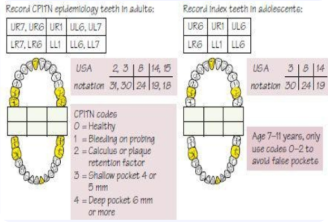
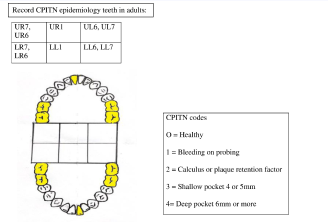
#161 : Resolve Login and Upload Consent Screen Issues in mHealth App

diff --git a/lib/views/login/login_home.dart b/lib/views/login/login_home.dart
@@ -30,35 +30,23 @@ class _LoginHomeState extends State<LoginHome> {
     super.dispose();
   }
 
-  Future<bool> onBackPress() async {
-    // if (loginViewModel.authFlow == LoginScreenTypes.MOBILE_NUMBER) {
-    //   loginViewModel.loginScreenType = LoginScreenTypes.MOBILE_NUMBER;
-    // } else {
-      loginViewModel.loginScreenType = LoginScreenTypes.EMAIL;
-    // }
-    return false;
-  }
-
   @override
   Widget build(BuildContext context) {
-    return WillPopScope(
-      onWillPop: onBackPress,
-      child: Material(
-        child: Selector<LoginViewModel, LoginScreenTypes>(
-          selector: (_, provider) => provider.loginScreenType,
-          builder: (context, LoginScreenTypes value, child) {
-            switch (value) {
-              case LoginScreenTypes.OTP_SCREEN:
-                return const LoginOtpScreen();
-              case LoginScreenTypes.EMAIL:
-                default:
-                return const LoginEmailScreen();
-              /*case LoginScreenTypes.MOBILE_NUMBER:
+    return Material(
+      child: Selector<LoginViewModel, LoginScreenTypes>(
+        selector: (_, provider) => provider.loginScreenType,
+        builder: (context, LoginScreenTypes value, child) {
+          switch (value) {
+            case LoginScreenTypes.OTP_SCREEN:
+              return const LoginOtpScreen();
+            case LoginScreenTypes.EMAIL:
               default:
-                return const LoginMobileScreen();*/
-            }
-          },
-        ),
+              return const LoginEmailScreen();
+            /*case LoginScreenTypes.MOBILE_NUMBER:
+            default:
+              return const LoginMobileScreen();*/
+          }
+        },
       ),
     );
   }

diff --git a/lib/views/screening/consent_screening_screen.dart b/lib/views/screening/consent_screening_screen.dart
@@ -68,6 +68,7 @@ class _ConsentScreeningScreenState extends State<ConsentScreeningScreen> {
   Widget build(BuildContext context) {
     return WillPopScope(
       onWillPop: () async {
+        Navigator.of(context).pop();
         return false;
       },
       child: Scaffold(
@@ -138,7 +139,9 @@ class _ConsentScreeningScreenState extends State<ConsentScreeningScreen> {
                                       removeButtonKey: Key(KEY_REMOVE_BUTTON),
                                       onRemoveClick: () {
                                         provider.removeConsent(index);
-                                        _selectedAttachment.value = null;
+                                        if (provider.consentList == [] || provider.consentList.isEmpty) {
+                                          _selectedAttachment.value = null;
+                                        }
                                       },
                                       viewPictureClick: () {
                                         CommonFunctions.viewImage(context: context, bytes: provider.consentList[index]!.bytes);

diff --git a/lib/viewModel/login_view_model.dart b/lib/viewModel/login_view_model.dart
@@ -1,6 +1,5 @@
 import 'dart:convert';
 import 'package:flutter/material.dart';
-import 'package:http/http.dart';
 import 'package:mhealth/model/send_otp_response_model.dart';
 import 'package:mhealth/model/user_model.dart';
 import 'package:mhealth/model/verify_otp_response_model.dart';
@@ -9,7 +8,6 @@ import 'package:mhealth/services/shared_preference_service.dart';
 import 'package:mhealth/utils/app_constant.dart';
 import 'package:mhealth/utils/common_functions.dart';
 import 'package:mhealth/utils/enums.dart';
-import 'package:shared_preferences/shared_preferences.dart';
 
 class LoginViewModel extends ChangeNotifier {
   static LoginViewModel loginViewModel = LoginViewModel._();
@@ -131,7 +129,7 @@ class LoginViewModel extends ChangeNotifier {
         loginUser(jsonEncode(response.toJson()));
       }
     } catch (e) {
-      CommonFunctions.toastMessage(AppConstant.ERROR_SOMETHING_WENT_WRONG);
+      CommonFunctions.toastMessage(AppConstant.INVALID_OTP);
     } finally {
       isLoading = false;
     }

diff --git a/lib/views/ask_mhealth/verification_screen.dart b/lib/views/ask_mhealth/verification_screen.dart
@@ -302,6 +302,7 @@ class _VerificationScreenState extends State<VerificationScreen> {
                           onPressed: () async {
                             if (_hasConsent.value == false) {
                               _errorText.value = true;
+                              CommonFunctions.toastMessage(AppConstant.FIELD_REQUIRED);
                             } else {
                               saveVerificationData();
                               await questionnaireViewModel.setNextSectionData(sectionName: "community_risk_assessment_verification_form",context: context, staticSectionsData: []);

diff --git a/lib/utils/app_constant.dart b/lib/utils/app_constant.dart
@@ -72,6 +72,7 @@ class AppConstant {
   static const String PLEASE_SELECT_PREFERRED_LANGUAGE = "Please select your preferred language";
   static const String ERROR_FILL_REQUIRED_FIELDS = "Fill required fields";
   static const String FIELD_REQUIRED = "This field is required";
+  static const String INVALID_OTP = "OTP is invalid";
   static const String NO_RECORD_FOUND = "No Records Found";
   static const String SELECT_FILE_BEFORE_SUBMITTING = "Fill required fields";
 
